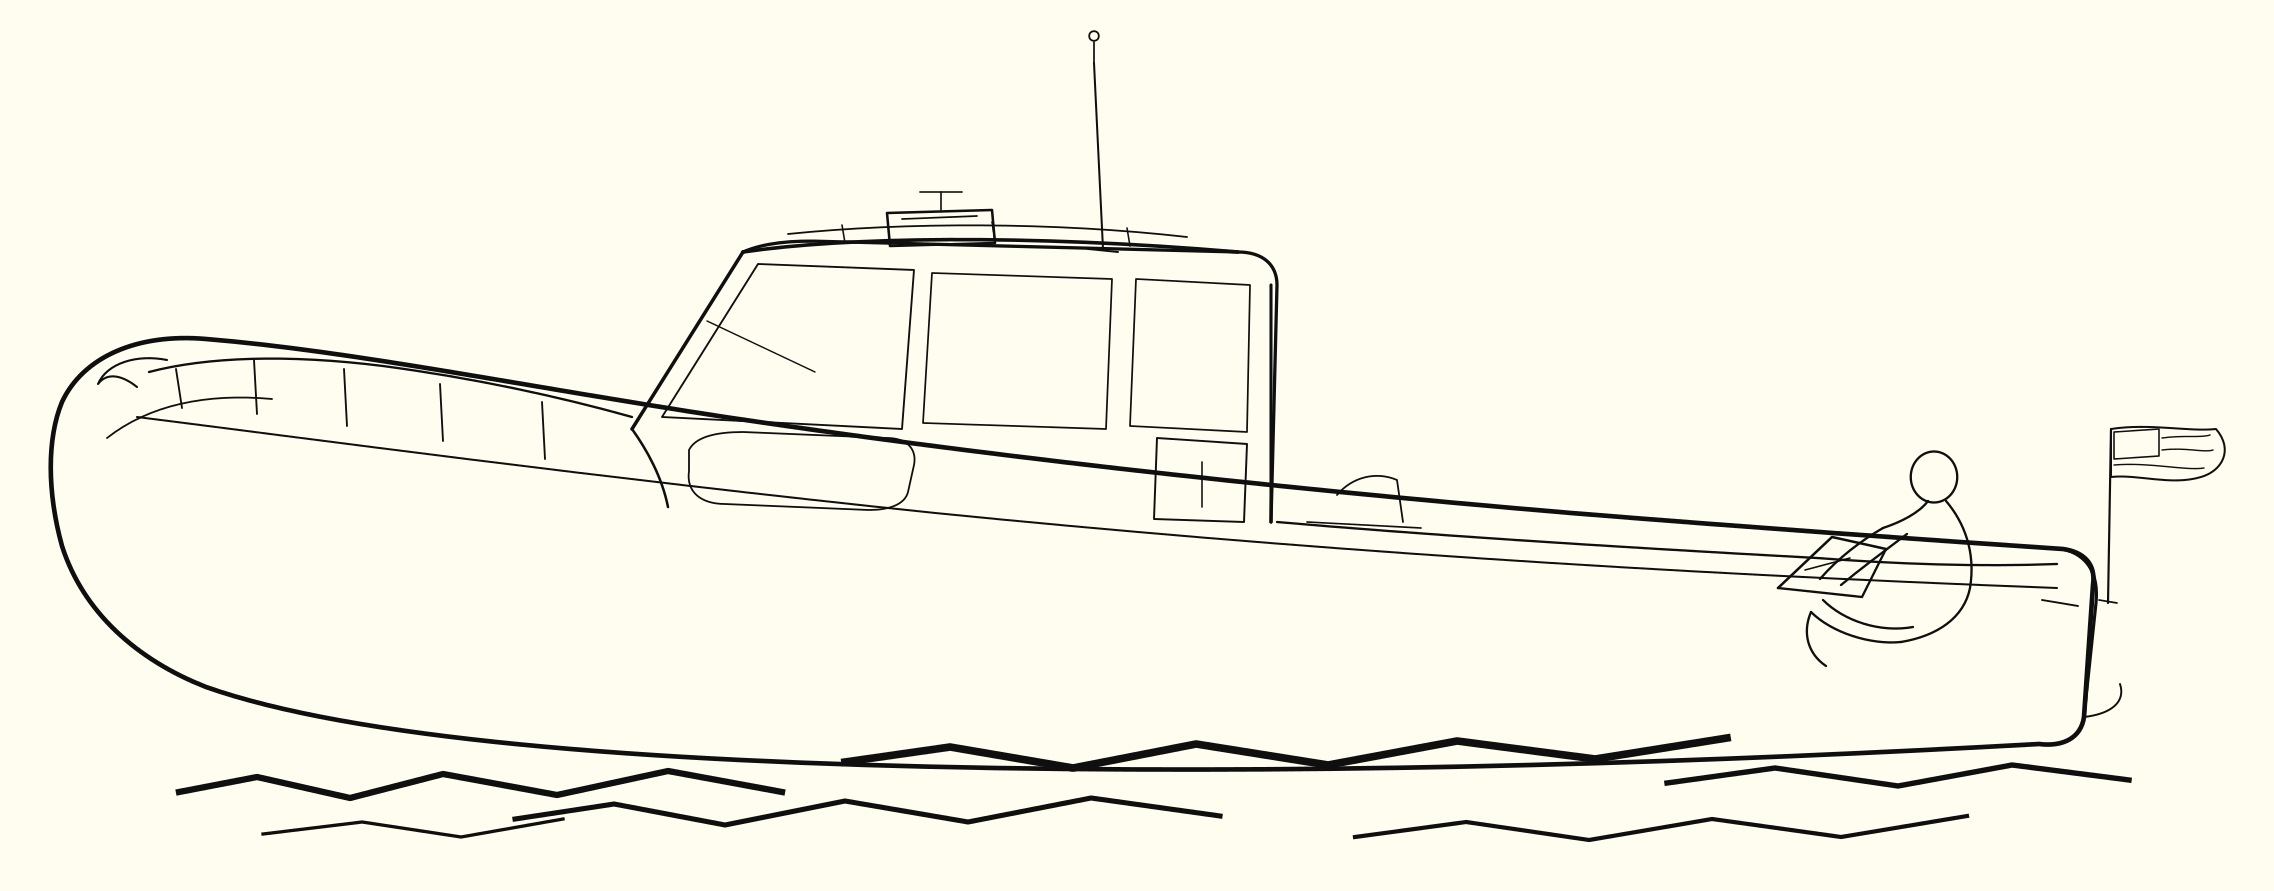
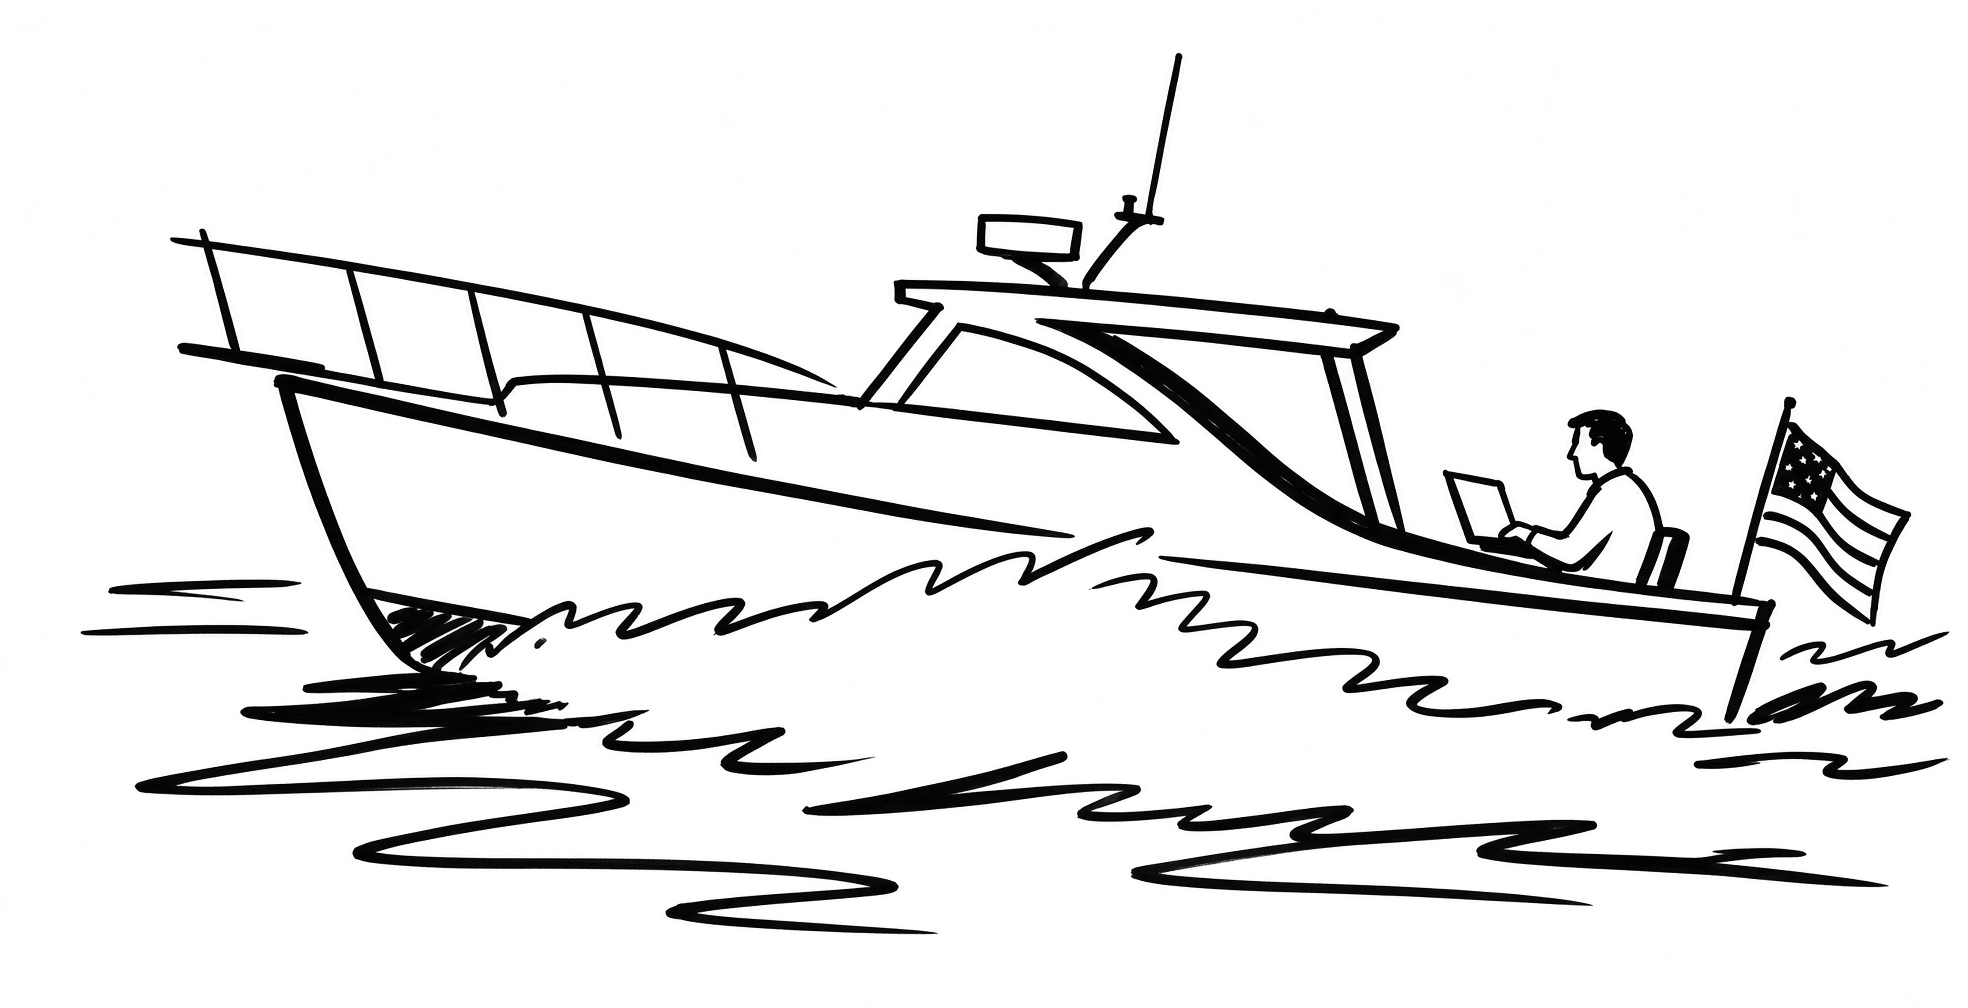
Replace hero boat with Adam's uploaded drawing.
Promote public/IMG_8555.jpeg to boat.jpeg, punch paper to boat.png
(1936×979), refresh derived icons/OG/wake, and update Home dimensions.

diff --git a/src/pages/Home.tsx b/src/pages/Home.tsx
@@ -8,8 +8,8 @@ export function Home() {
         <img
           src="/boat.png"
           alt="Ink drawing of a man working on a laptop at the stern of a Downeast motorboat."
-          width={2274}
-          height={891}
+          width={1936}
+          height={979}
         />
       </figure>
       <h1 className="wordmark">downeast.dev</h1>
